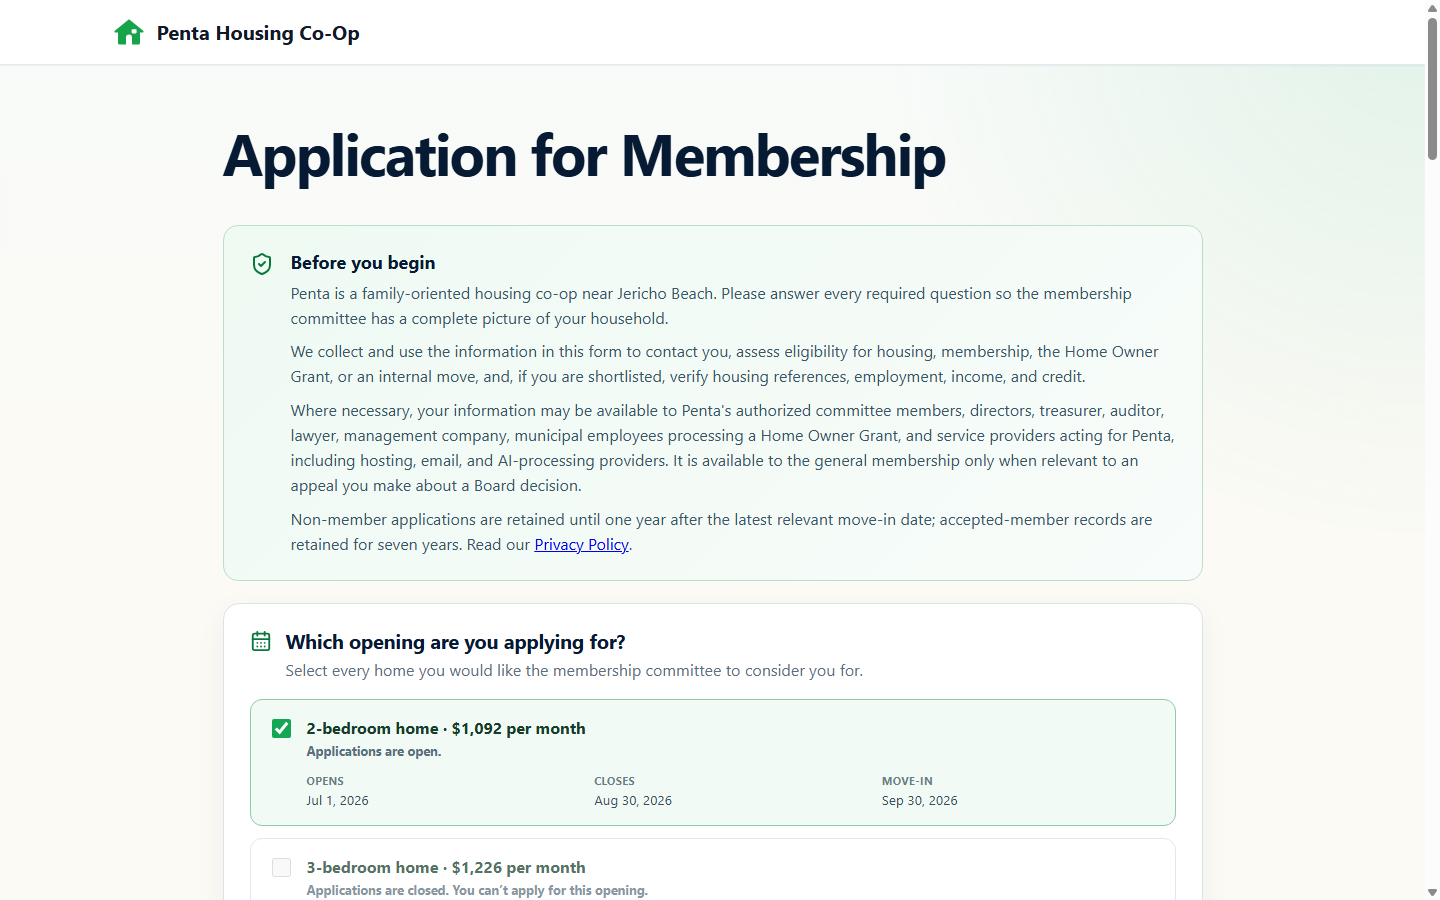
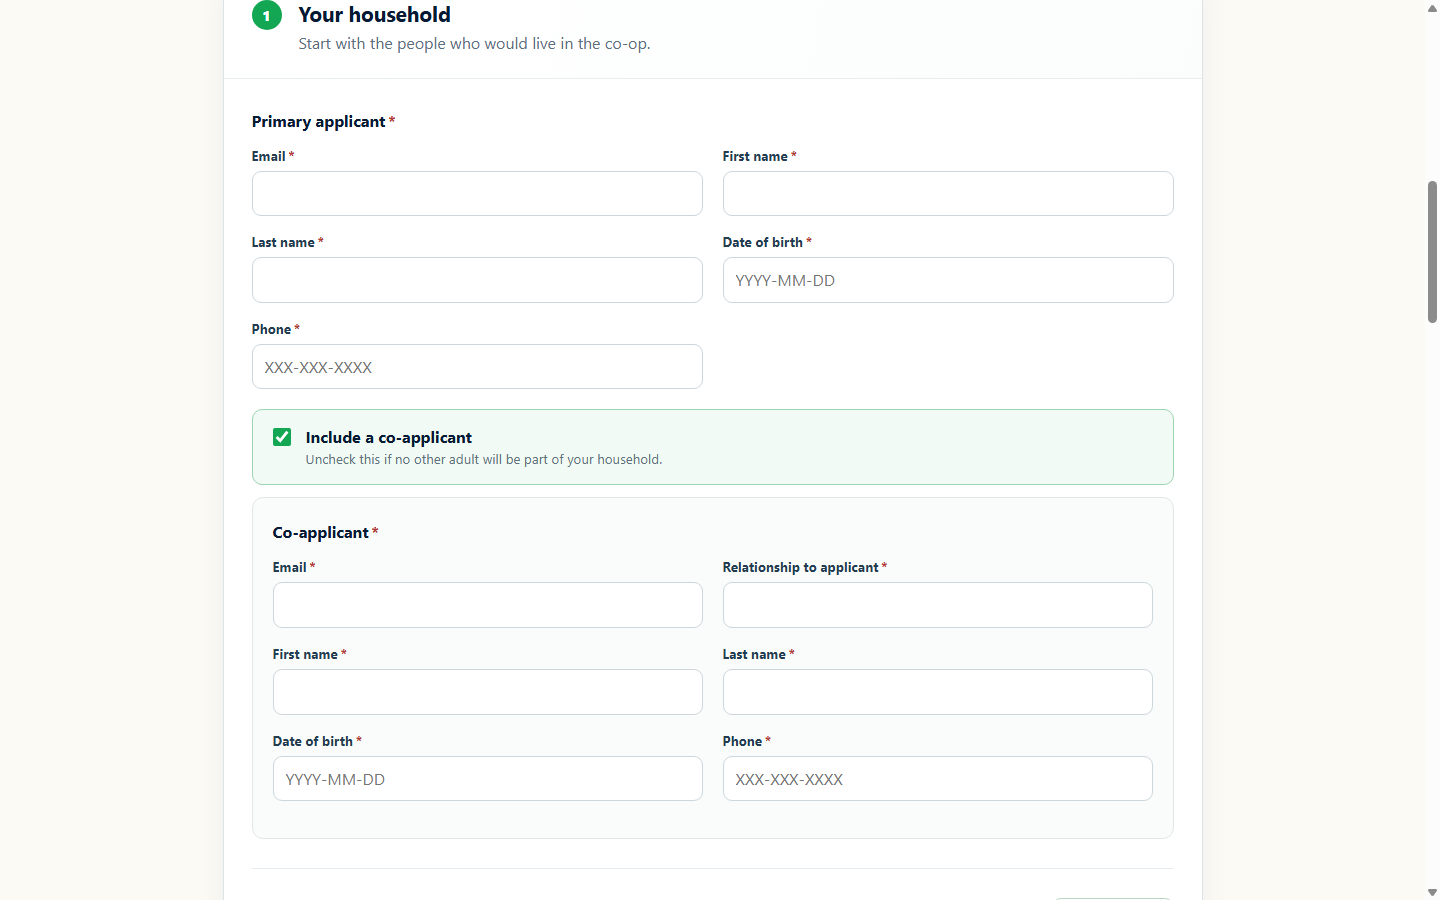
docs(readme): sharpen the product screenshot story
Start the applicant image at the form itself and select the concrete regression case in Evals so each frame carries a distinct part of the AI-product narrative.

diff --git a/README.md b/README.md
@@ -25,9 +25,10 @@ committee review, transactional email, and retention into one operating system.
 
 Screenshots use the committed synthetic fixture; no real applicant data is published.
 
-![Applicant-facing membership form with privacy notice and opening selection](docs/images/applicant-experience.png)
+![Applicant-facing membership form collecting household details](docs/images/applicant-experience.png)
 
-*The applicant experience collects the real source material the committee and AI-assisted workflow review.*
+*The applicant experience begins with structured household details and continues through housing,
+essays, employment, income, review, and submission.*
 
 ## Design Highlights
 
